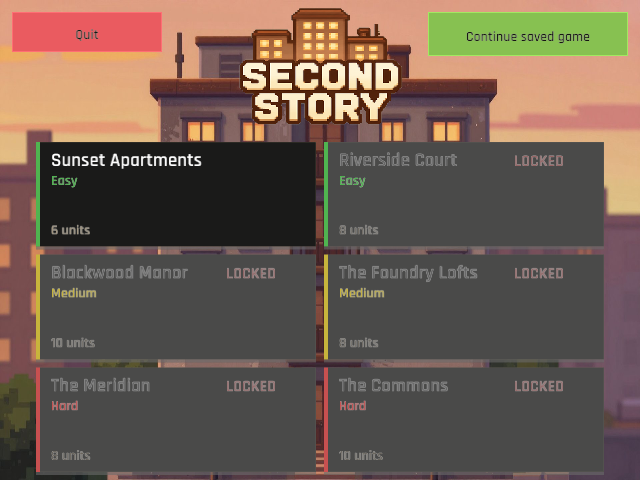
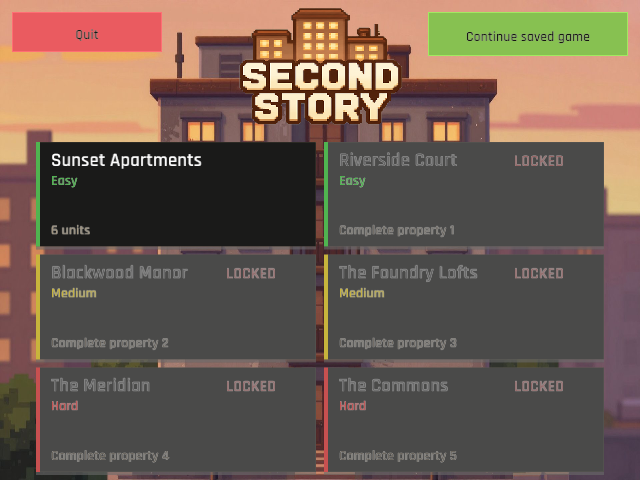
Every locked doorway names the building that opens it (campaign progression guidance)
Replace generic locked-card footers with the exact preceding property completion requirement. Preserve full descriptions on desktop and keep the compact 640x480 menu focused on difficulty plus the concrete next goal.

Verified with 131 passing tests (1 ignored), desktop and 640x480 menu captures, formatting, diff and Rust line-count checks, and publish.ps1 for Windows, WebGL, and preview deployment.

diff --git a/src/state/menu.rs b/src/state/menu.rs
@@ -284,10 +284,17 @@ impl MenuState {
                 );
             }
 
-            // Units count
-            let units = template.apartments.len();
+            // Locked cards use the final line for the concrete progression
+            // requirement; unlocked cards retain the unit-count summary.
+            let footer_text = if is_unlocked {
+                format!("{} units", template.apartments.len())
+            } else if template.unlock_order == 0 {
+                "Complete the previous property".to_string()
+            } else {
+                format!("Complete property {}", template.unlock_order)
+            };
             draw_ui_text(
-                &format!("{} units", units),
+                &truncate_text_to_width(&footer_text, card_w - 30.0, 14.0),
                 x + 15.0,
                 y + card_h - 12.0,
                 14.0,
